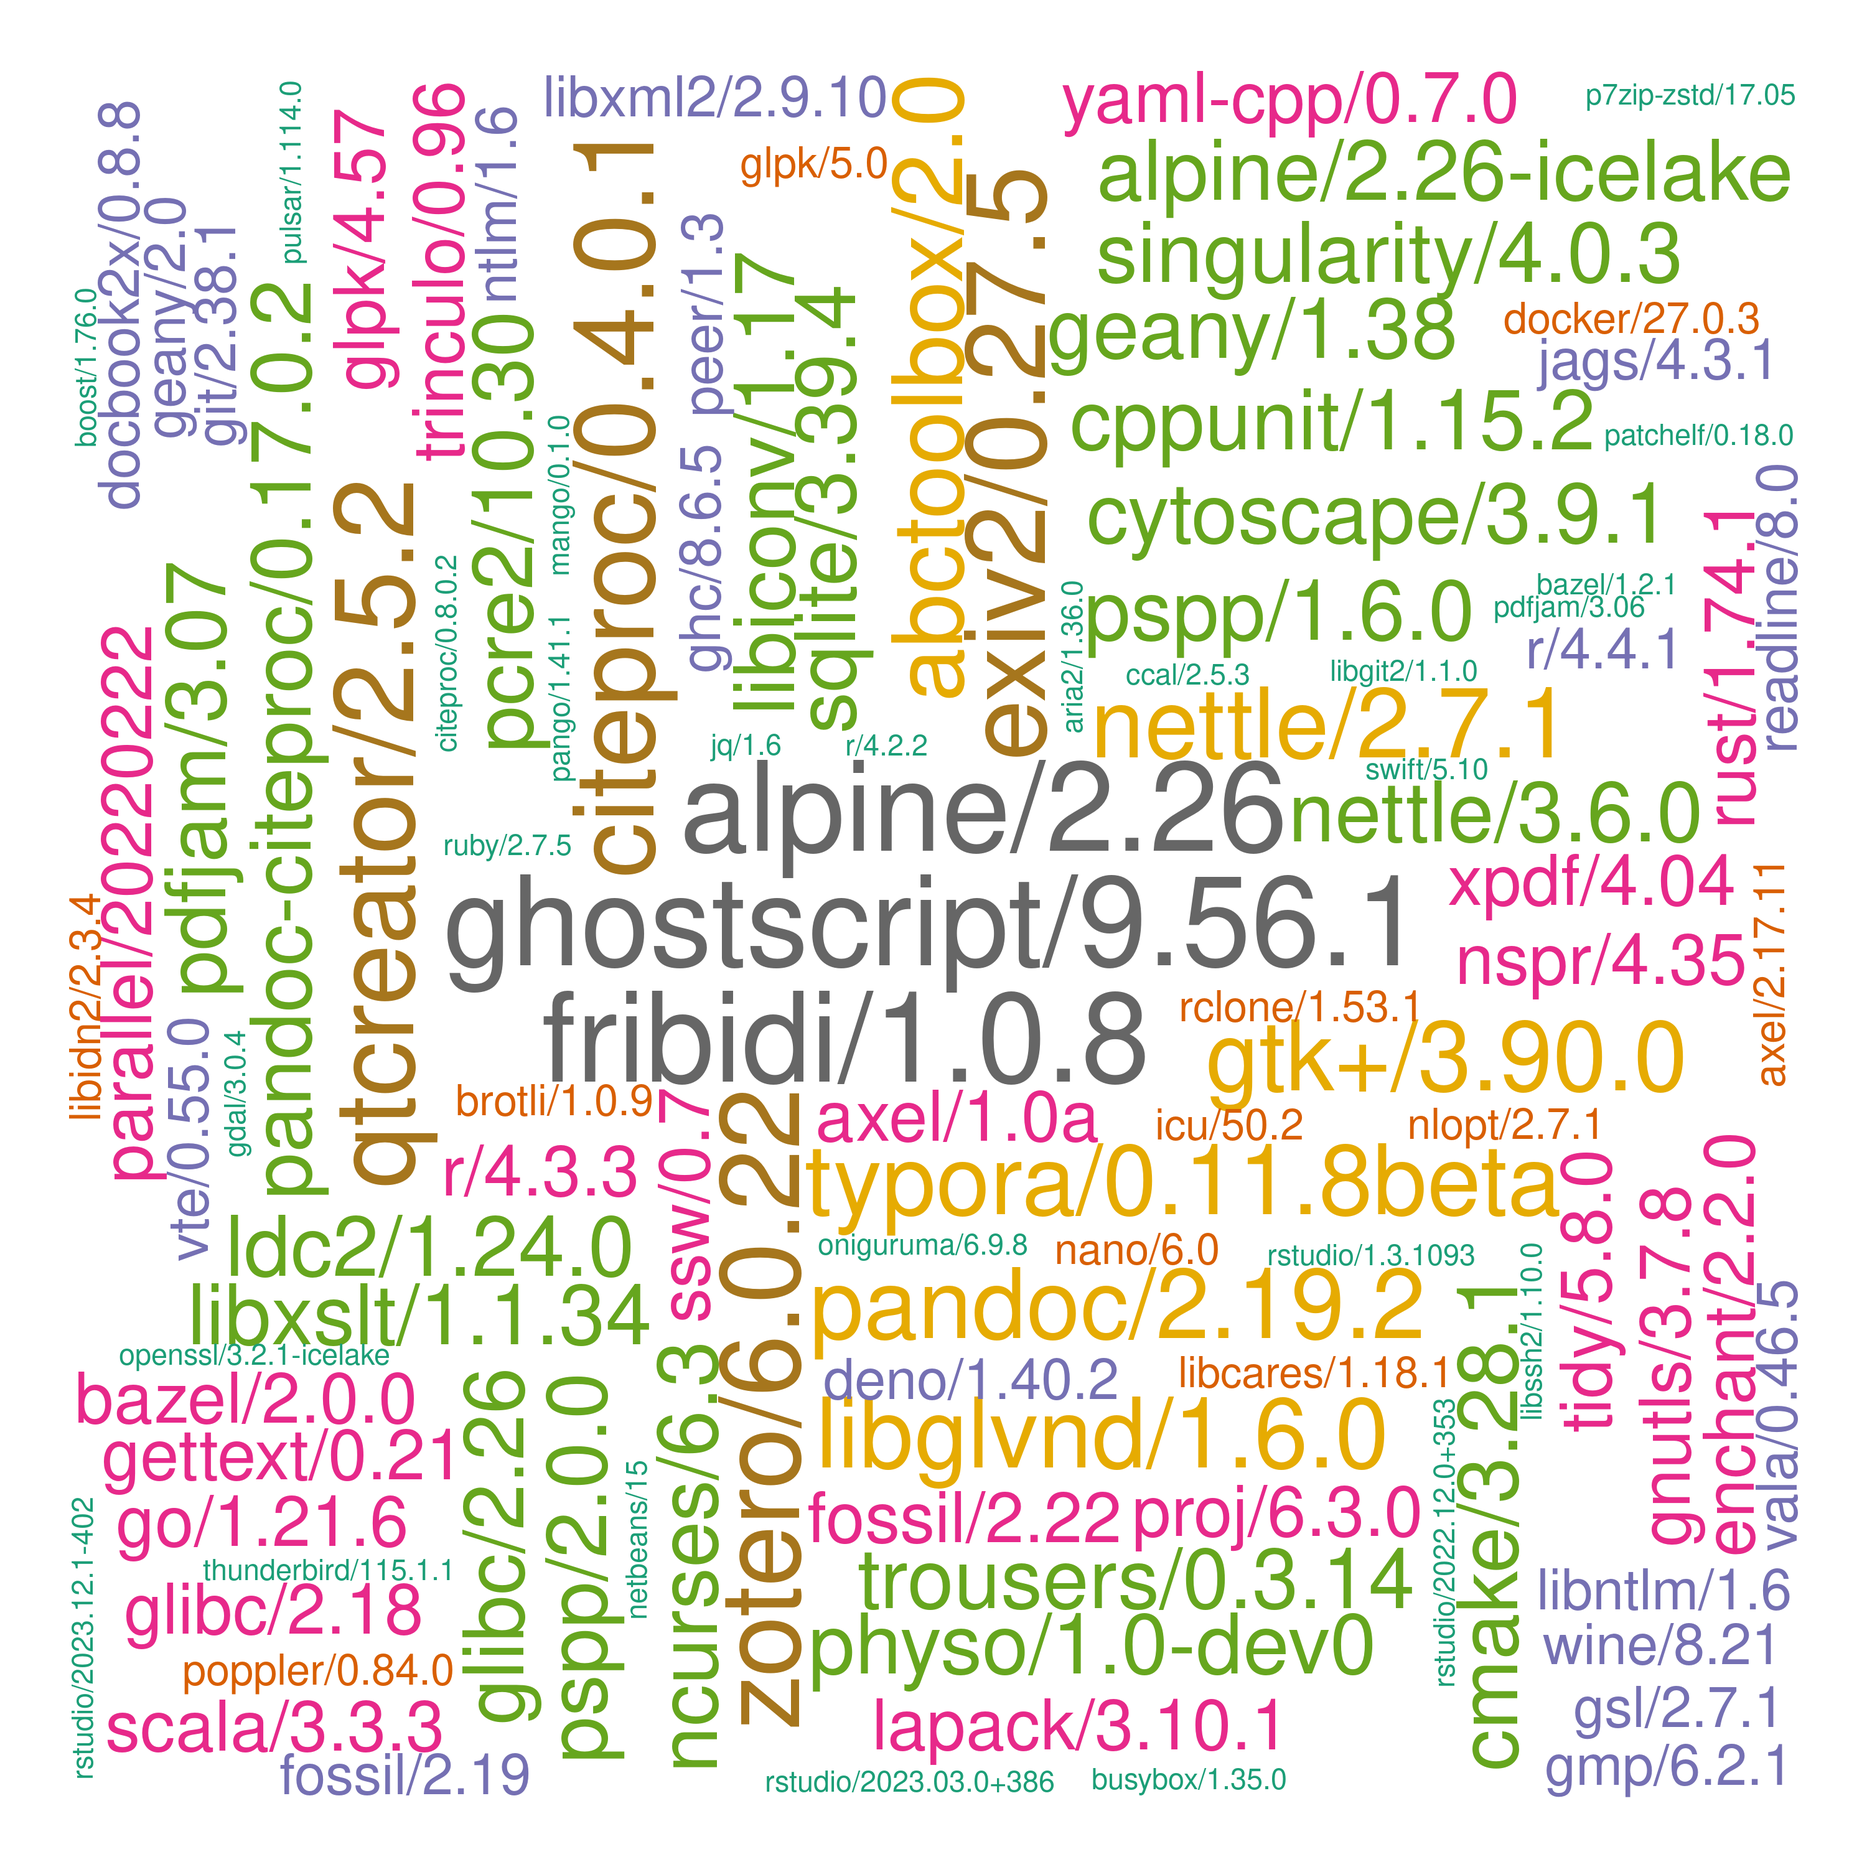
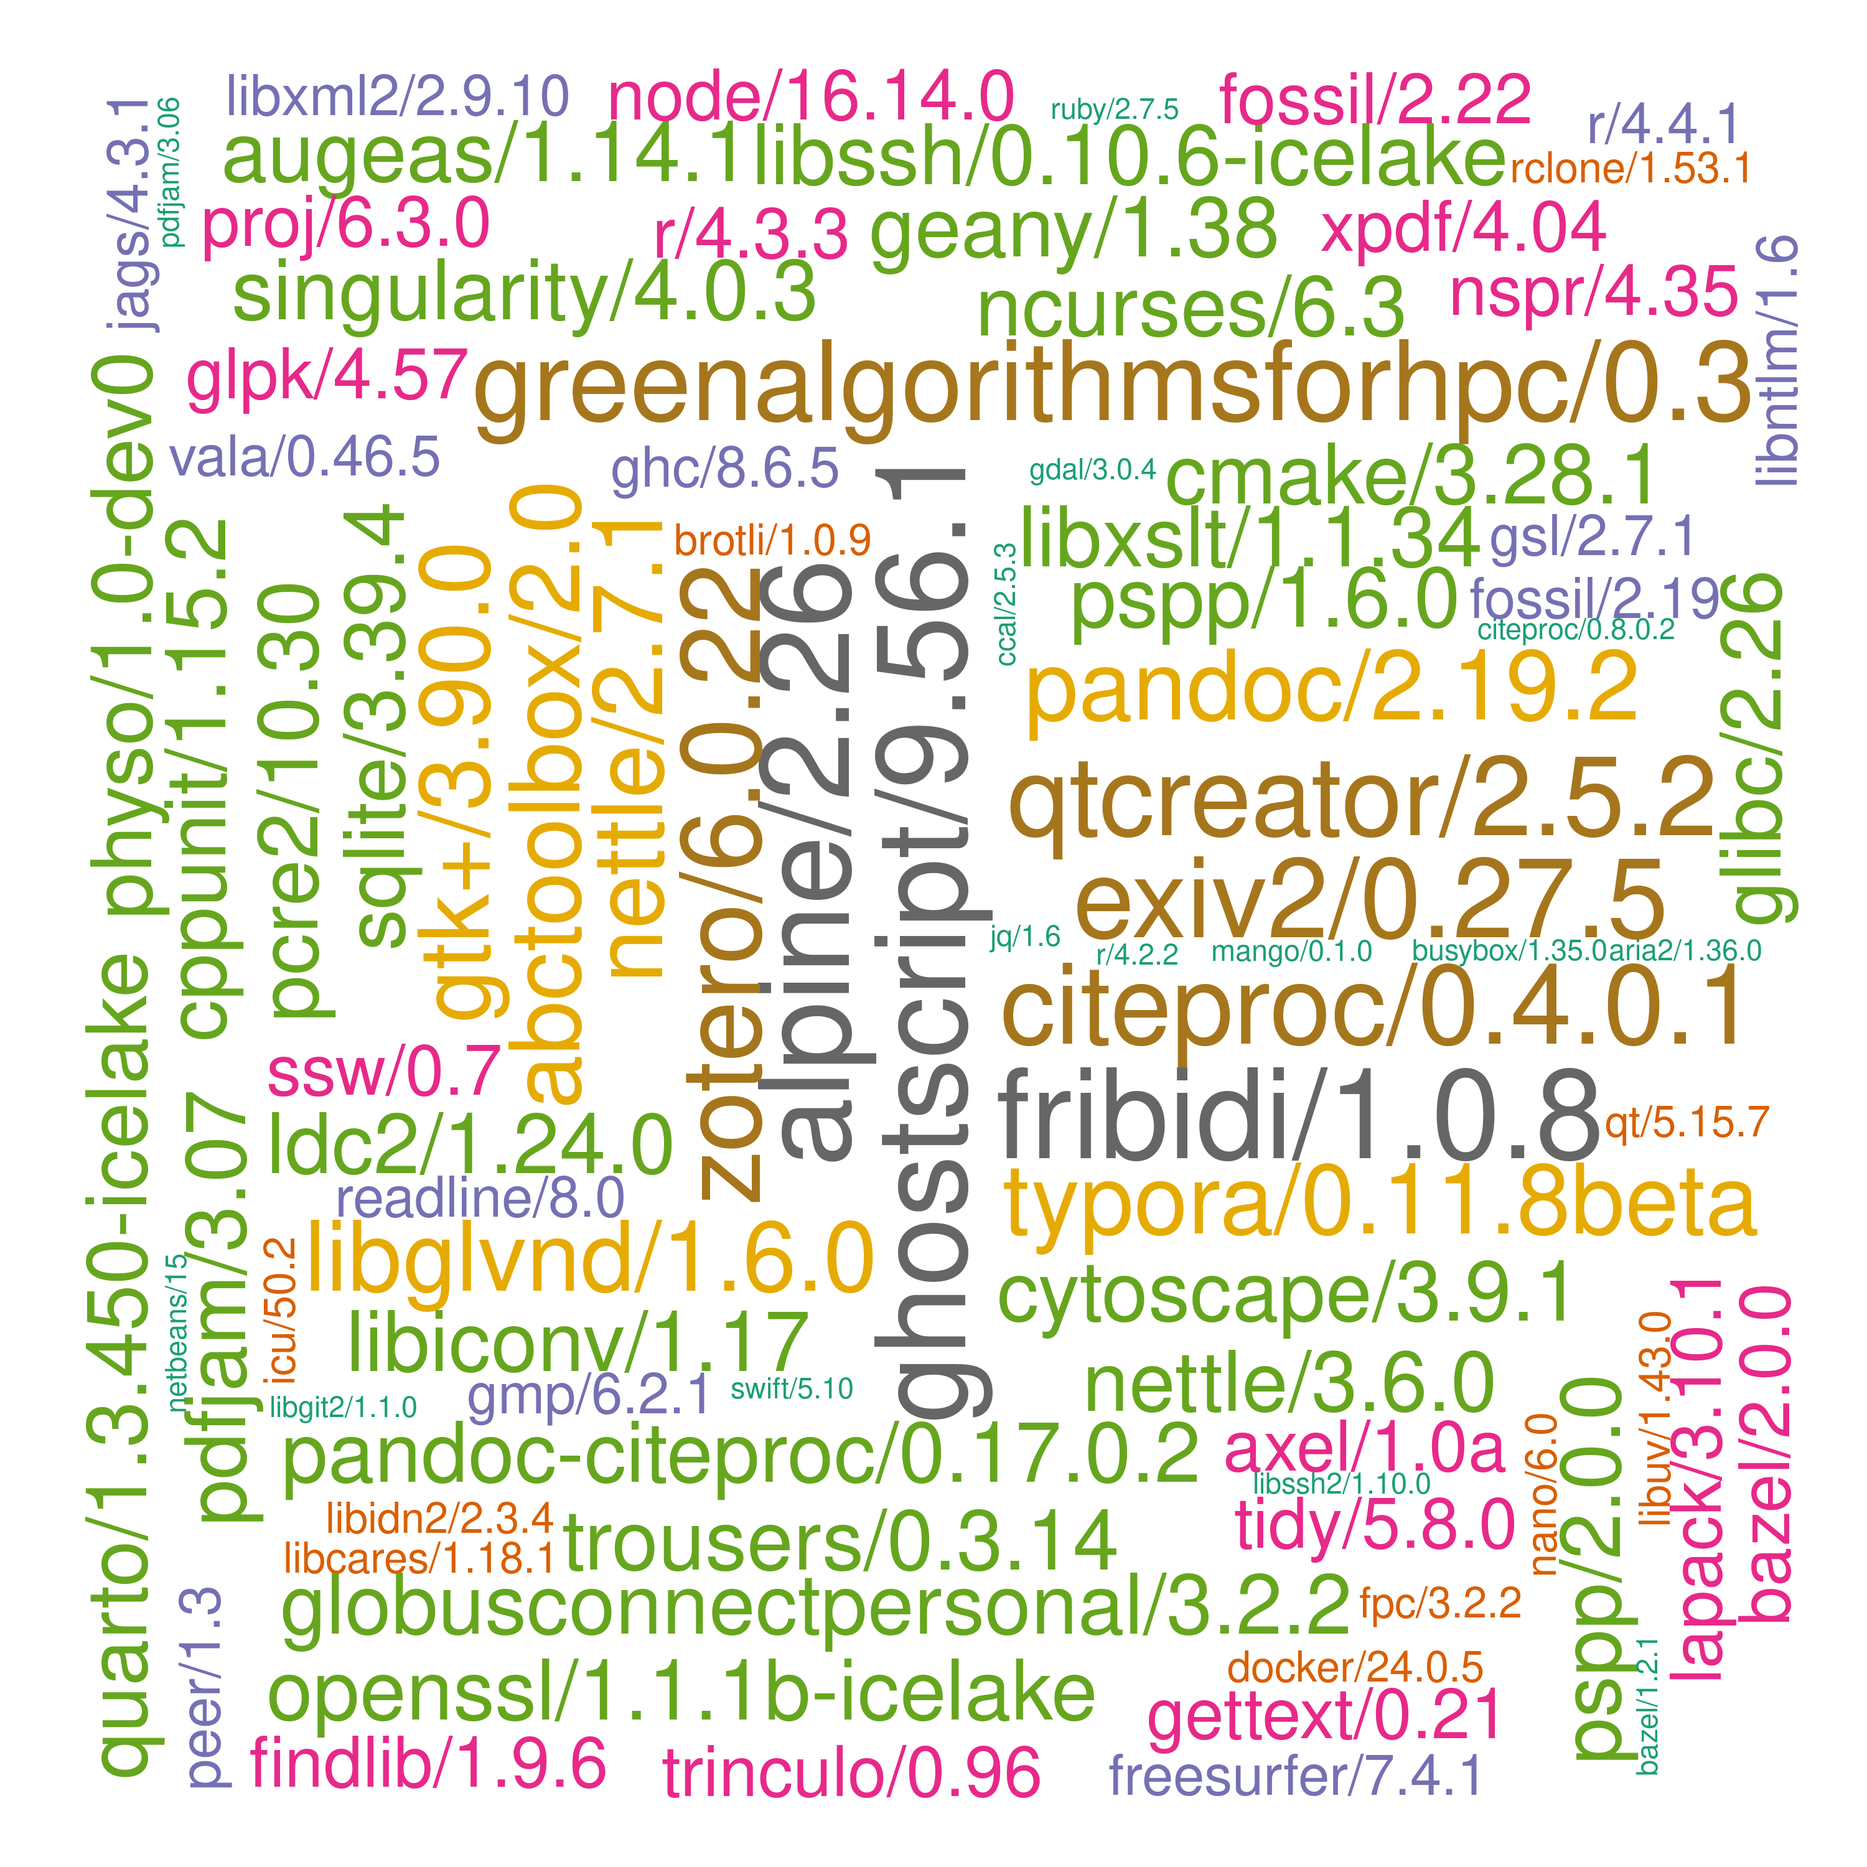
./

diff --git a/systems/ceuadmin.md b/systems/ceuadmin.md
@@ -18,67 +18,68 @@ The current list is as follows,
 
 ```
   [1] "ABCtoolbox"            "akt"                   "allegro"               "alpine"
-  [5] "Anaconda3"             "annovar"               "aria2"                 "autoconf"
-  [9] "automake"              "axel"                  "bazel"                 "bcftools"
- [13] "Beagle"                "bedops"                "bedtools2"             "bgen"
- [17] "biobank"               "blat"                  "boltlmm"               "boost"
- [21] "brotli"                "busybox"               "CaVEMaN"               "CAVIAR"
- [25] "CAVIARBF"              "ccal"                  "circos"                "citeproc"
- [29] "cmake"                 "cppunit"               "crossmap"              "crux"
- [33] "cryptsetup"            "Cytoscape"             "deno"                  "DEPICT"
- [37] "device-mapper"         "diann"                 "DjVuLibre"             "docbook2X"
- [41] "docker"                "DosageConverter"       "dotnet"                "Eagle"
- [45] "enchant"               "ensembl-vep"           "exiv2"                 "exomeplus"
- [49] "expat"                 "FastQTL"               "fcGENE"                "ffmpeg"
- [53] "fgwas"                 "finemap"               "FlashLFQ"              "fossil"
- [57] "fpc"                   "fraposa_pgsc"          "freesurfer"            "fribidi"
- [61] "GARFIELD"              "gatk"                  "gcta"                  "gdal"
- [65] "gdc"                   "geany"                 "GEM"                   "GEMMA"
- [69] "Genotype-Harmonizer"   "gettext"               "gh"                    "ghc"
- [73] "ghostscript"           "git"                   "git-extras"            "GitKraken"
- [77] "glib"                  "glibc"                 "globusconnectpersonal" "glpk"
- [81] "gmp"                   "gnutls"                "go"                    "googletest"
- [85] "graphene"              "GraphicsMagick"        "GreenAlgorithms4HPC"   "gsl"
- [89] "gtk+"                  "gtksourceview"         "gtool"                 "hpg"
- [93] "htslib"                "hunspell"              "icu"                   "ImageJ"
- [97] "ImageMagick"           "impute"                "JabRef"                "JAGS"
-[101] "jq"                    "json-c"                "KentUtils"             "KING"
-[105] "krb5"                  "lapack"                "ldc2"                  "ldsc"
-[109] "LDstore"               "LEMMA"                 "libcares"              "libgit2"
-[113] "libglvnd"              "libiconv"              "libidn2"               "libntlm"
-[117] "libpng"                "libseccomp"            "libsodium"             "libssh"
-[121] "libssh2"               "libuv"                 "libxml2"               "libxslt"
-[125] "locuszoom"             "LVM2"                  "MAGENTA"               "magma"
-[129] "Mango"                 "Mega2"                 "metal"                 "MetaMorpheus"
-[133] "MONSTER"               "MORGAN"                "MR-MEGA"               "msamanda"
-[137] "MsCAVIAR"              "msms"                  "nano"                  "ncbi-vdb"
-[141] "ncurses"               "netbeans"              "nettle"                "nextflow"
-[145] "nlopt"                 "NLopt"                 "node"                  "nspr"
-[149] "ntlm"                  "oniguruma"             "openjdk"               "OpenMS"
-[153] "openssh"               "openssl"               "osca"                  "p7zip-zstd"
-[157] "PAINTOR"               "pandoc"                "pandoc-citeproc"       "pango"
-[161] "parallel"              "Pascal"                "patchelf"              "pcre2"
-[165] "pdf2djvu"              "pdfjam"                "peer"                  "pgsc_calc"
-[169] "phenoscanner"          "PhySO"                 "picard"                "plink"
-[173] "plink-bgi"             "plinkseq"              "podman"                "PoGo"
-[177] "polyphen"              "poppler"               "popt"                  "proj"
-[181] "PRSice"                "pspp"                  "pulsar"                "PWCoCo"
-[185] "pwiz"                  "qctool"                "qemu"                  "qpdf"
-[189] "qt"                    "qtcreator"             "QTLtools"              "quarto"
-[193] "quicktest"             "R"                     "raremetal"             "rclone"
-[197] "readline"              "regenie"               "regtools"              "RHHsoftware"
-[201] "rst2pdf"               "rstudio"               "rtmpdump"              "ruby"
-[205] "rust"                  "samtools"              "Scala"                 "seqkit"
-[209] "shapeit"               "singularity"           "SMR"                   "snakemake"
-[213] "SNP2HLA"               "snptest"               "spread-sheet-widget"   "spyder"
-[217] "sqlite"                "sra-tools"             "sshpass"               "ssw"
-[221] "STAR"                  "stata"                 "SurvivalAnalysis"      "SurvivalKit"
-[225] "Swift"                 "tabix"                 "tatami"                "thunderbird"
-[229] "tidy"                  "trinculo"              "trousers"              "Typora"
-[233] "unbound"               "vala"                  "VarScan"               "vcftools"
-[237] "VEGAS2"                "verifyBamID"           "VSCode"                "VSCodium"
-[241] "vte"                   "wine"                  "xpdf"                  "yaml-cpp"
-[245] "Zotero"                "zstd"
+  [5] "Anaconda3"             "annovar"               "aria2"                 "augeas"
+  [9] "autoconf"              "automake"              "axel"                  "bazel"
+ [13] "bcftools"              "Beagle"                "bedops"                "bedtools2"
+ [17] "bgen"                  "biobank"               "blat"                  "boltlmm"
+ [21] "boost"                 "brotli"                "busybox"               "CaVEMaN"
+ [25] "CAVIAR"                "CAVIARBF"              "ccal"                  "circos"
+ [29] "citeproc"              "cmake"                 "cppunit"               "crossmap"
+ [33] "crux"                  "cryptsetup"            "Cytoscape"             "deno"
+ [37] "DEPICT"                "device-mapper"         "diann"                 "DjVuLibre"
+ [41] "docbook2X"             "docker"                "DosageConverter"       "dotnet"
+ [45] "Eagle"                 "enchant"               "ensembl-vep"           "exiv2"
+ [49] "exomeplus"             "expat"                 "FastQTL"               "fcGENE"
+ [53] "ffmpeg"                "fgwas"                 "findlib"               "finemap"
+ [57] "FlashLFQ"              "fossil"                "fpc"                   "fraposa_pgsc"
+ [61] "freesurfer"            "fribidi"               "GARFIELD"              "gatk"
+ [65] "gcta"                  "gdal"                  "gdc"                   "geany"
+ [69] "GEM"                   "GEMMA"                 "Genotype-Harmonizer"   "gettext"
+ [73] "gh"                    "ghc"                   "ghostscript"           "git"
+ [77] "git-extras"            "GitKraken"             "glib"                  "glibc"
+ [81] "globusconnectpersonal" "glpk"                  "gmp"                   "gnutls"
+ [85] "go"                    "googletest"            "graphene"              "GraphicsMagick"
+ [89] "GreenAlgorithms4HPC"   "gsl"                   "gtk+"                  "gtksourceview"
+ [93] "gtool"                 "hivex"                 "hpg"                   "htslib"
+ [97] "hunspell"              "icu"                   "ImageJ"                "ImageMagick"
+[101] "impute"                "JabRef"                "JAGS"                  "jq"
+[105] "json-c"                "KentUtils"             "KING"                  "krb5"
+[109] "lapack"                "ldc2"                  "ldsc"                  "LDstore"
+[113] "LEMMA"                 "libcares"              "libgit2"               "libglvnd"
+[117] "libiconv"              "libidn2"               "libntlm"               "libpng"
+[121] "libseccomp"            "libsodium"             "libssh"                "libssh2"
+[125] "libuv"                 "libxml2"               "libxslt"               "locuszoom"
+[129] "LVM2"                  "MAGENTA"               "magma"                 "Mango"
+[133] "Mega2"                 "metal"                 "MetaMorpheus"          "MONSTER"
+[137] "MORGAN"                "MR-MEGA"               "msamanda"              "MsCAVIAR"
+[141] "msms"                  "nano"                  "ncbi-vdb"              "ncurses"
+[145] "netbeans"              "nettle"                "nextflow"              "nlopt"
+[149] "NLopt"                 "node"                  "nspr"                  "ntlm"
+[153] "ocaml"                 "oniguruma"             "opam"                  "openjdk"
+[157] "OpenMS"                "openssh"               "openssl"               "osca"
+[161] "p7zip-zstd"            "PAINTOR"               "pandoc"                "pandoc-citeproc"
+[165] "pango"                 "parallel"              "Pascal"                "patchelf"
+[169] "pcre2"                 "pdf2djvu"              "pdfjam"                "peer"
+[173] "pgsc_calc"             "phenoscanner"          "PhySO"                 "picard"
+[177] "plink"                 "plink-bgi"             "plinkseq"              "podman"
+[181] "PoGo"                  "polyphen"              "poppler"               "popt"
+[185] "proj"                  "PRSice"                "pspp"                  "pulsar"
+[189] "PWCoCo"                "pwiz"                  "qctool"                "qemu"
+[193] "qpdf"                  "qt"                    "qtcreator"             "QTLtools"
+[197] "quarto"                "quicktest"             "R"                     "raremetal"
+[201] "rclone"                "readline"              "regenie"               "regtools"
+[205] "RHHsoftware"           "rst2pdf"               "rstudio"               "rtmpdump"
+[209] "ruby"                  "rust"                  "samtools"              "Scala"
+[213] "seqkit"                "shapeit"               "singularity"           "SMR"
+[217] "snakemake"             "SNP2HLA"               "snptest"               "spread-sheet-widget"
+[221] "spyder"                "sqlite"                "sra-tools"             "sshpass"
+[225] "ssw"                   "STAR"                  "stata"                 "SurvivalAnalysis"
+[229] "SurvivalKit"           "Swift"                 "tabix"                 "tatami"
+[233] "thunderbird"           "tidy"                  "trinculo"              "trousers"
+[237] "Typora"                "unbound"               "vala"                  "VarScan"
+[241] "vcftools"              "VEGAS2"                "verifyBamID"           "VSCode"
+[245] "VSCodium"              "vte"                   "wine"                  "xpdf"
+[249] "yaml-cpp"              "Zotero"                "zstd"
 ```
 
 These are wrapped up as :star::star::star: **[modules](https://modules.readthedocs.io/en/latest/index.html)** :star::star::star:.

diff --git a/systems/setup.md b/systems/setup.md
@@ -300,6 +300,11 @@ All entries are ordered chronologically.
 | ""          | nettle/3.9-icelake               | Generic              |
 | 2024-07-11  | qemu/9.0.1                       | Generic[^qemu]       |
 | 2024-07-13  | msamanda/3.0.21.532              | Proteomics           |
+| 2024-07-16  | augeas/1.14.1                    | Generic              |
+| ""          | libguestfs/1.48.6                | Generic[^libguestfs] |
+| ""          | hivex/1.3.23                     | Generic[^hivex]      |
+| ""          | ocaml/4.14.2                     | Generic              |
+| ""          | findlib/1.9.6                    | Generic[^findlib]    |
 
 \* CEU or approved users only.
 
@@ -1287,3 +1292,39 @@ They are generated from script [setup.sh](setup.sh),
     ```
 
     where `format=raw` appears considerably faster but can make the image less flexible (e.g., no snapshots).
+
+[^libguestfs]: **libguestfs**
+
+    ```bash
+    export JANSSON_CFLAGS="-I$CEUADMIN/augeas/1.14.1/include"
+    export JANSSON_LIBS="-L$CEUADMIN/augeas/1.14.1/lib -laugeas"
+    export HIVEX_CFLAGS="-I$CEUADMIN/hivex/1.3.23/include"
+    export HIVEX_LIBS="-L$CEUADMIN/hivex/1.3.23/lib -lhivex"
+    ./configure --prefix=$CEUADMIN/libguestfs/1.48.6
+    ```
+
+[^hivex]: **hivex**
+
+    ```bash
+    wget -qO- https://download.libguestfs.org/hivex/hivex-1.3.23.tar.gz | tar xfz -
+    cd hivex-1.3.23
+    ./configure --prefix=$CEUADMIN/hivex/1.3.23
+    make
+    cd perl
+    perl Makefile.PL INSTALLDIRS=site INSTALL_BASE=/usr/local/Cluster-Apps/ceuadmin/hivex/1.3.23
+    cd ..
+    make
+    make install
+    ```
+
+    Note that to avoid OCaml, the release version has to be used instead of the GitHub release (no `hivex.h`). The `INSTALL_PREFIX` is replaced with `INSTALL_BASE`. Also for now, Python binding is not enabled.
+
+[^findlib]: **findlib**
+
+    ```bash
+    wget -qO- http://download.camlcity.org/download/findlib-1.9.6.tar.gz | tar xfz -
+    cd findlib-1.9.6
+    configure -bindir $CEUADMIN/findlib/1.9.6/bin -mandir $CEUADMIN/findlib/1.9.6/man
+    make
+    make install
+    ```

diff --git a/systems/qemu.md b/systems/qemu.md
@@ -14,6 +14,8 @@ Web: <https://cloud-images.ubuntu.com/noble/current/>
 mv -i noble-server-cloudimg-amd64.img ubuntu-24-server.qcow2
 qemu-img convert -f qcow2 -O qcow2 ubuntu-24-server.qcow2 root-disk.qcow2
 qemu-img resize root-disk.qcow2 +10G
+# VDI
+qemu-img convert -O vdi ubuntu-24.04-minimal-cloudimg-amd64.img disk.vdi
 ```
 
 ## CentOS
